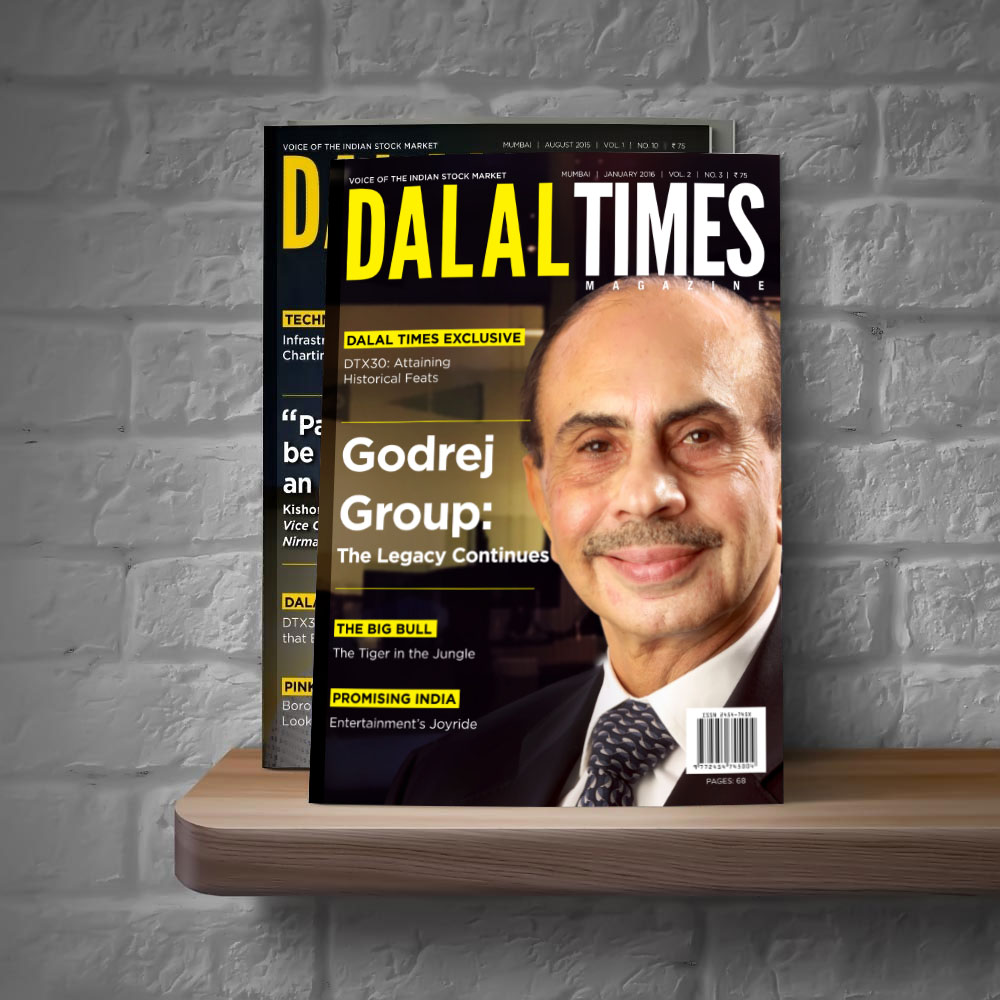
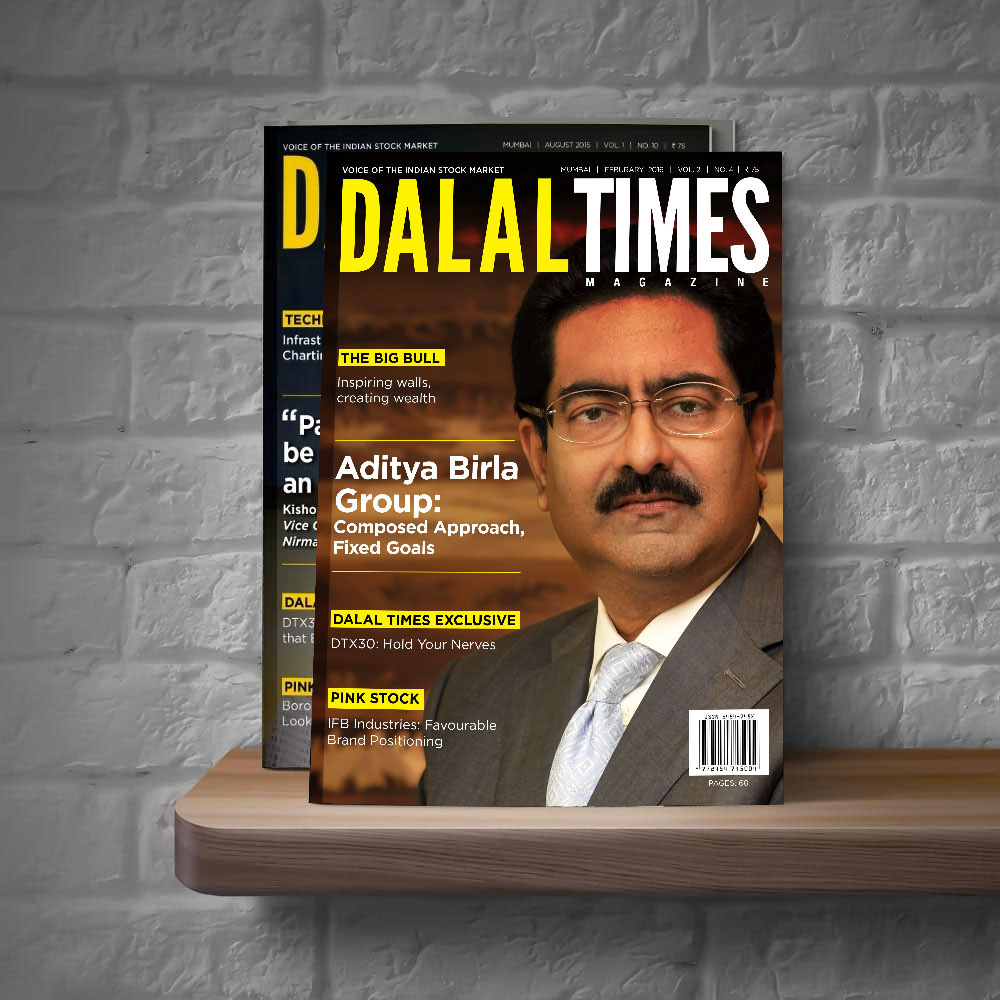
February Issue & Addition of two categories in the `Chart of the Day` Category

Changed region(s): [[0.31, 0.124, 0.806, 0.806]]

diff --git a/magazine/view/home.tpl.php b/magazine/view/home.tpl.php
@@ -352,6 +352,7 @@ if ($_SESSION['_loggedIn'] == 1) {
 	$complete_issue_list = '';
 	if (is_array($this->_data['completeIssues'])) {
 		$issue_array = array(
+      'february2016' => array('issue' => 'Feb 2016', 'issue_url' => '/magazine/february2016', 'issue_cover_img' => 'view/february2016/cover.jpg'),
       'january2016' => array('issue' => 'Jan 2016', 'issue_url' => '/magazine/january2016', 'issue_cover_img' => 'view/january2016/cover.jpg'),
       'december2015' => array('issue' => 'Dec 2015', 'issue_url' => '/magazine/december2015', 'issue_cover_img' => 'view/december2015/cover.jpg'),
 			'november2015' => array('issue' => 'Nov 2015', 'issue_url' => '/magazine/november2015', 'issue_cover_img' => 'view/november2015/cover.jpg'),
@@ -368,6 +369,7 @@ if ($_SESSION['_loggedIn'] == 1) {
 		}
 	}
 	$partial_issue_array = array(
+    'february2016' => array('issue' => 'Feb 2016', 'issue_url' => '/sneak-preview/february2016', 'issue_cover_img' => 'view/partial-february2016/cover.jpg'),
     'january2016' => array('issue' => 'Jan 2016', 'issue_url' => '/sneak-preview/january2016', 'issue_cover_img' => 'view/partial-january2016/cover.jpg'),
     'december2015' => array('issue' => 'Dec 2015', 'issue_url' => '/sneak-preview/december2015', 'issue_cover_img' => 'view/partial-december2015/cover.jpg'),
 		'november2015' => array('issue' => 'Nov 2015', 'issue_url' => '/sneak-preview/november2015', 'issue_cover_img' => 'view/partial-november2015/cover.jpg'),

diff --git a/dalaltimes/view/menu.php b/dalaltimes/view/menu.php
@@ -29,9 +29,8 @@
         <div id="header-search-input"></div>
         <div class="left">
           <a href="javascript:void(0);" id="horizontal-nav-toggle" title="Menu"><i class="fa fa-bars fa-lg" style="color:#FFFFFF;padding: 0 10px;"></i></a>
-          <!-- |
+          |
           <a href="javascript:void(0);" id="c-button--search" class="c-button" title="Search"><i class="fa fa-search fa-lg" style="color:#FFFFFF;padding: 0 10px;"></i></a>
- -->
         </div>
           <div class="header-content bigmegamenu clearfix">
               <nav class="wsmenu slideLeft clearfix menuopen">
